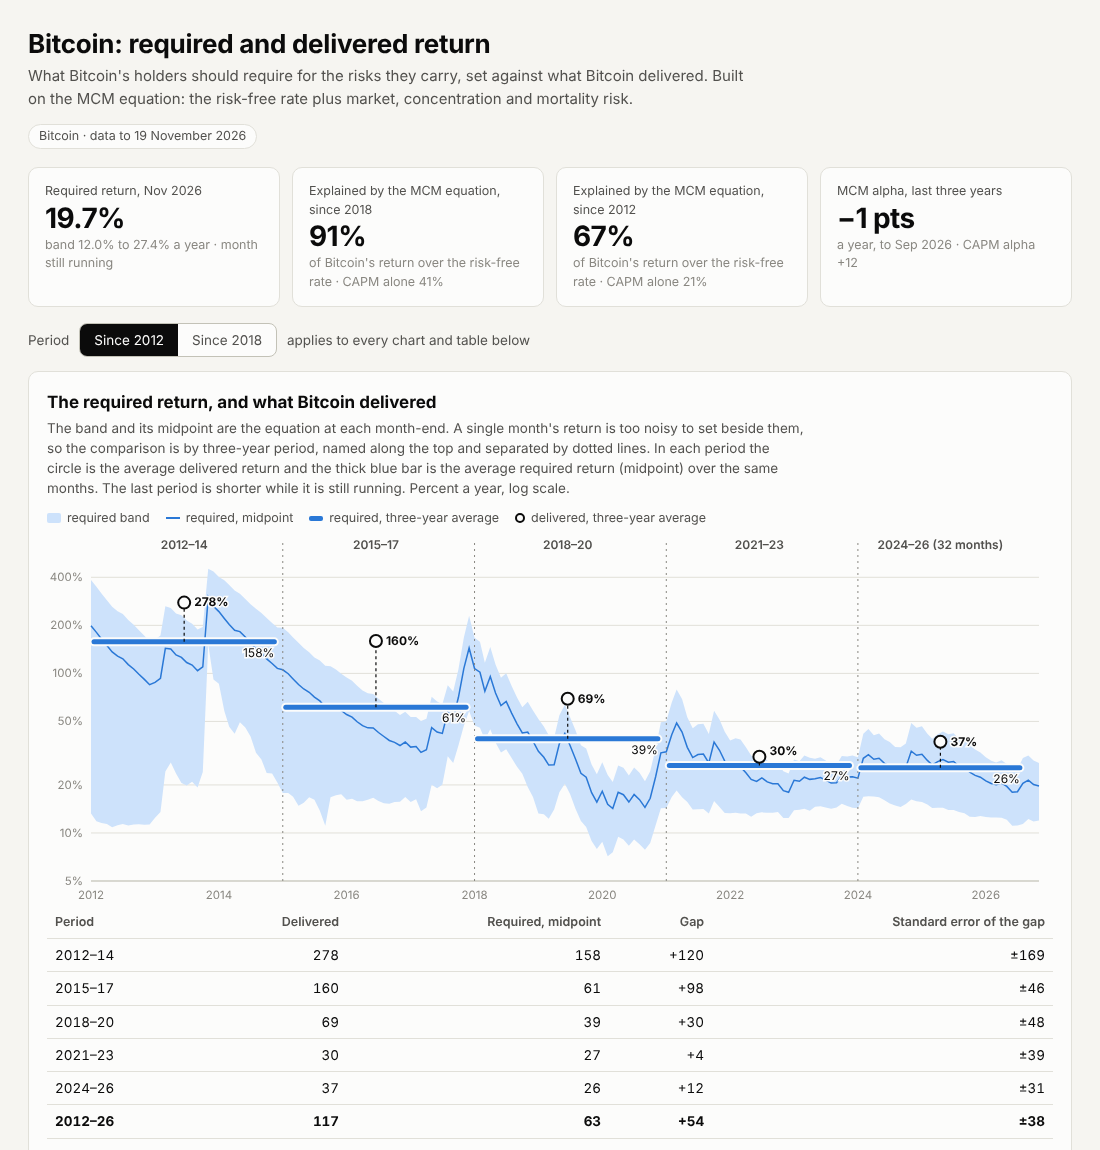
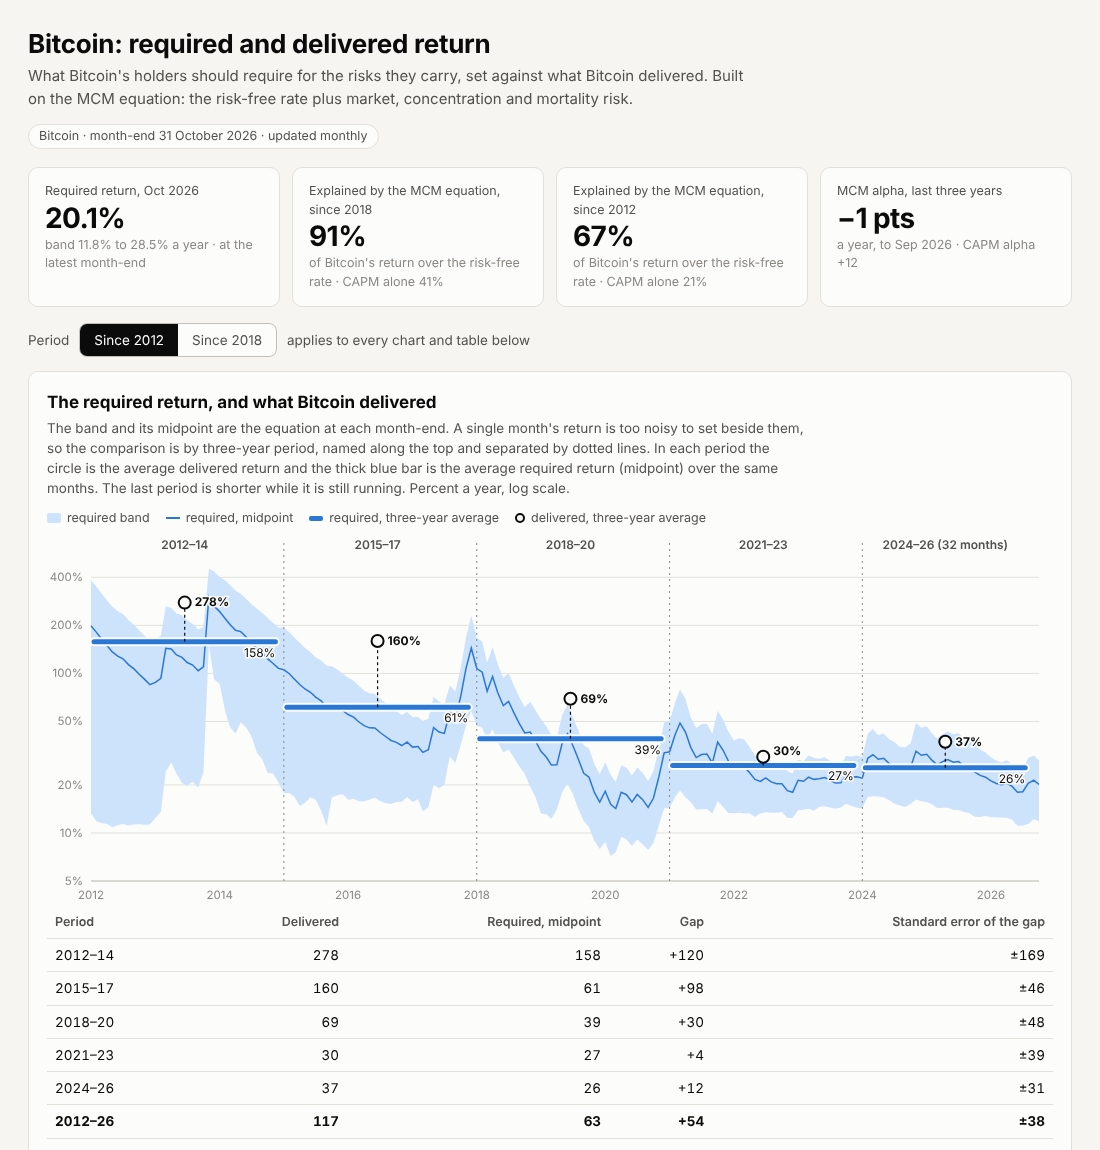
Date the page at the last complete month-end; warn when the data are old
A month in progress is left out. The page shows a notice if the latest month-end
is more than 50 days old, and the update fails if a source has stopped. Phone
layout and labels tidied.

diff --git a/site/template.html b/site/template.html
@@ -32,6 +32,7 @@ h1{font-size:26px;line-height:1.2;margin:0 0 6px;letter-spacing:-.01em}
 h2{font-size:17px;margin:0 0 2px}
 .lede{color:var(--ink2);max-width:720px;margin:0 0 6px}
 .stamp{display:inline-block;font-size:12.5px;color:var(--ink2);border:1px solid var(--line);border-radius:999px;padding:2px 10px;margin:8px 0 18px;background:var(--surface)}
+.stale{display:none;border:1px solid #c98500;border-left-width:4px;border-radius:8px;padding:10px 14px;margin:0 0 16px;background:var(--surface);font-size:13.5px;max-width:760px}
 .sub{color:var(--ink2);font-size:13.5px;margin:0 0 10px;max-width:760px}
 .card{background:var(--surface);border:1px solid var(--line);border-radius:10px;padding:18px 18px 12px;margin:0 0 16px}
 .tiles{display:grid;grid-template-columns:repeat(auto-fit,minmax(200px,1fr));gap:12px;margin:0 0 16px}
@@ -56,9 +57,10 @@ h2{font-size:17px;margin:0 0 2px}
 .mini p{font-size:12.5px;color:var(--mut);margin:0}
 
 .risk{border-top:1px solid var(--line);margin-top:18px;padding-top:16px}
-.risk>h3{font-size:16px;margin:0;display:flex;align-items:center;gap:9px}
+.risk>h3{font-size:16px;margin:0;display:flex;align-items:center;gap:4px 9px;flex-wrap:wrap}
 .risk>h3 i{width:12px;height:12px;border-radius:3px;display:inline-block}
 .risk>h3 span{font-weight:400;color:var(--ink2);font-size:13.5px}
+@media (max-width:560px){.risk>h3 span{flex-basis:100%}}
 .risk>p{font-size:13.5px;color:var(--ink2);max-width:760px;margin:6px 0 8px}
 .eq{display:flex;flex-wrap:wrap;gap:6px 10px;align-items:stretch;margin:10px 0 2px;font-variant-numeric:tabular-nums}
 .eq div{border:1px solid var(--line);border-radius:8px;padding:8px 12px;min-width:104px}
@@ -98,6 +100,7 @@ text{font-family:inherit}
   <h1>Bitcoin: required and delivered return</h1>
   <p class="lede">What Bitcoin's holders should require for the risks they carry, set against what Bitcoin delivered. Built on the MCM equation: the risk-free rate plus market, concentration and mortality risk.</p>
   <div class="stamp" id="stamp"></div>
+  <div class="stale" id="stale" role="status"></div>
 
   <div class="tiles" id="tiles"></div>
 
@@ -133,7 +136,7 @@ text{font-family:inherit}
 
   <section class="card" id="sec-per">
     <h2>How much of the delivered return each model explains</h2>
-    <p class="sub">Bitcoin's return over the risk-free rate in each three-year period, percent a year. The CAPM explains the market part: Bitcoin's beta times the S&amp;P 500's return over the risk-free rate. The MCM equation adds the concentration and mortality terms. What is left is alpha, in the lower panel: the circle less the top of the bar.</p>
+    <p class="sub">Bitcoin's return over the risk-free rate in each three-year period, percent a year. The CAPM explains the market part: Bitcoin's beta times the US equity market's return over the risk-free rate. The MCM equation adds the concentration and mortality terms. What is left is alpha, in the lower panel: the circle less the top of the bar.</p>
     <div class="legend"><span><i style="background:var(--violet)"></i>market (the CAPM part)</span><span><i style="background:var(--orange)"></i>concentration and mortality (added by MCM)</span><span><i class="dot"></i>delivered</span><span><i style="background:var(--blue)"></i>MCM alpha, with ± one standard error</span></div>
     <div class="chart" id="c-per"></div>
     <div class="scroll"><table id="t-per"></table></div>
@@ -165,8 +168,8 @@ text{font-family:inherit}
       <p>The risk Bitcoin shares with the stock market, the one risk the CAPM prices. It rises when Bitcoin moves more closely with equities.</p>
       <div class="grid2">
         <div class="mini"><h3>Market term</h3><p>points a year added to the required return</p><div class="chart" id="m-mkt"></div></div>
-        <div class="mini"><h3>Input: beta to the S&amp;P 500</h3><p>rolling four years</p><div class="chart" id="m-beta"></div></div>
-        <div class="mini"><h3>Behind beta: correlation with the S&amp;P 500</h3><p>rolling four years</p><div class="chart" id="m-corr"></div></div>
+        <div class="mini"><h3>Input: beta to the US equity market</h3><p>rolling four years</p><div class="chart" id="m-beta"></div></div>
+        <div class="mini"><h3>Behind beta: correlation with the US equity market</h3><p>rolling four years</p><div class="chart" id="m-corr"></div></div>
       </div>
     </div>
 
@@ -329,7 +332,7 @@ function perChart(){
     g.append("text").attr("x",-8).attr("y",sc(v)).attr("dy","0.32em").attr("text-anchor","end").attr("font-size",11.5).attr("fill",css("--mut")).text(fmt(v));});};
   grid(y,y.ticks(4),v=>v+"%"); grid(y2,y2.ticks(4),v=>sgn(v));
   const cap=(yy,s)=>g.append("text").attr("x",0).attr("y",yy).attr("font-size",12).attr("font-weight",600).attr("fill",css("--ink2")).text(s);
-  cap(-12,"Delivered, and what the models explain"); cap(Y2-20,"MCM alpha: delivered less explained, points a year");
+  cap(-12,"Delivered, and what the models explain"); cap(Y2-20,narrow(f)?"MCM alpha, points a year":"MCM alpha: delivered less explained, points a year");
   g.selectAll("text.x").data(P).join("text").attr("x",p=>x(p.p)+x.bandwidth()/2).attr("y",f.ih+19).attr("text-anchor","middle").attr("font-size",12).attr("fill",css("--ink2")).text(p=>narrow(f)?"’"+p.p.slice(2):p.p);
   const bw=Math.min(x.bandwidth(),64), bx=p=>x(p.p)+(x.bandwidth()-bw)/2, cx=p=>bx(p)+bw/2;
   const tipFor=(e,p)=>{const n=f.tip.node(); n.textContent="";
@@ -444,14 +447,17 @@ function deathsChart(){
 }
 function tiles(){
   const m=DATA.meta, a=DATA.per.find(p=>p.sum&&p.p.startsWith("2012")), b=DATA.per.find(p=>p.sum&&p.p.startsWith("2018"));
-  const T=[["Required return, "+fmtM(parse(m.now.asof)),m.band_mid.toFixed(1)+"%","band "+m.band_lo.toFixed(1)+"% to "+m.band_hi.toFixed(1)+"% a year"+(m.complete?"":" · month still running")],
+  const T=[["Required return, "+fmtM(parse(m.now.asof)),m.band_mid.toFixed(1)+"%","band "+m.band_lo.toFixed(1)+"% to "+m.band_hi.toFixed(1)+"% a year · at the latest month-end"],
            ["Explained by the MCM equation, since 2018",b.s_mcm+"%","of Bitcoin's return over the risk-free rate · CAPM alone "+b.s_capm+"%"],
            ["Explained by the MCM equation, since 2012",a.s_mcm+"%","of Bitcoin's return over the risk-free rate · CAPM alone "+a.s_capm+"%"],
            ["MCM alpha, last three years",sgn(m.tmcm)+" pts","a year, to "+fmtM(parse(m.to))+" · CAPM alpha "+sgn(m.tcapm)]];
   const el=document.getElementById("tiles"); el.textContent="";
   T.forEach(([k,v,n])=>{const d=document.createElement("div"); d.className="tile"; [["k",k],["v",v],["n",n]].forEach(([c,t])=>{const s=document.createElement("div"); s.className=c; s.textContent=t; d.appendChild(s);}); el.appendChild(d);});
-  document.getElementById("stamp").textContent="Bitcoin · data to "+d3.timeFormat("%-d %B %Y")(d3.timeParse("%Y-%m-%d")(m.data_to));
-  document.getElementById("asof").textContent="Dates of the data: prices and the Treasury yield to "+d3.timeFormat("%-d %B %Y")(d3.timeParse("%Y-%m-%d")(m.data_to))+"; equity market returns, and so the tests, to "+fmtM(parse(m.market_to))+" (the beta is carried forward from that month); ownership survey to "+fmtM(parse(m.anchors.ownership_survey))+"; fund and treasury holdings to "+fmtM(parse(m.anchors.fund_and_treasury_holdings))+", held flat after.";
+  const day=d3.timeParse("%Y-%m-%d"), longDate=d3.timeFormat("%-d %B %Y"), monthEnd=day(m.month_end);
+  document.getElementById("stamp").textContent="Bitcoin · month-end "+longDate(monthEnd)+" · updated monthly";
+  const age=Math.floor((Date.now()-monthEnd.getTime())/864e5), stale=document.getElementById("stale");
+  if(age>50){ stale.textContent="These figures are for "+longDate(monthEnd)+", "+age+" days ago. The monthly update has not run since, so they may be out of date."; stale.style.display="block"; }
+  document.getElementById("asof").textContent="Dates of the data: prices and the Treasury yield to "+longDate(monthEnd)+"; equity market returns, and so the tests, to "+fmtM(parse(m.market_to))+" (the beta is carried forward from that month); ownership survey to "+fmtM(parse(m.anchors.ownership_survey))+"; fund and treasury holdings to "+fmtM(parse(m.anchors.fund_and_treasury_holdings))+", held flat after.";
 }
 function draw(){
   bandChart(); termsChart(); perChart(); trailChart(); cumChart();

diff --git a/observatory/build.py b/observatory/build.py
@@ -30,15 +30,16 @@ def build(data: Path, out: Path) -> dict:
     mkt = inputs.market_return(data)
     band = mcm.required_return_band(btc, mkt, inputs.risk_free(data), cfg)
     band = band[band.index >= "2012-01-01"].dropna(subset=["midpoint"])
+    # The page is dated at the last complete month-end: a month in progress is left out.
+    last_day = btc["PriceUSD"].dropna().index[-1]
+    month_complete = last_day == last_day + pd.offsets.MonthEnd(0)
+    if not month_complete:
+        band = band.iloc[:-1]
     t = tests_of_fit.monthly_test(band, mkt)
     periods = tests_of_fit.period_table(t)
 
-    last_day = btc["PriceUSD"].dropna().index[-1]
-    month_complete = last_day == last_day + pd.offsets.MonthEnd(0)
     supply = btc["SplyCur"].dropna().resample("ME").last()
     issuance = btc["IssTotNtv"].resample("ME").sum() * 12 / supply
-    if not month_complete:
-        issuance.iloc[-1] = np.nan          # a partial month's total is not comparable
     fund_share = band["fund_btc"] / supply.reindex(band.index)
     roll = lambda s: 1200 * s.rolling(TRAILING).mean()
     trail = pd.DataFrame({"excess": roll(t.excess), "capm": roll(t.capm_unexplained), "mcm": roll(t.mcm_unexplained)})
@@ -78,7 +79,6 @@ def build(data: Path, out: Path) -> dict:
         "meta": {
             "asset": "btc", "name": "Bitcoin",
             "data_to": last_day.strftime("%Y-%m-%d"), "latest_month_end": band.index[-1].strftime("%Y-%m-%d"),
-            "latest_month_complete": bool(month_complete),
             "units": "percent a year unless stated; next_month figures are percent a month",
             "method": "Papadogiannis (2026), Bitcoin's Required Return. https://doi.org/10.2139/ssrn.7705239",
             "equity_market_to": mkt.dropna().index[-1].strftime("%Y-%m"),
@@ -136,7 +136,7 @@ def _page_payload(doc: dict) -> dict:
             "s_capm": round(p["explained_capm"]), "s_mcm": round(p["explained_mcm"])} for p in doc["periods"]]
     w, lt = doc["latest"]["worked"], doc["latest"]
     tr_rows = [r for r in rows if r["tmcm"] is not None]
-    meta = {"data_to": doc["meta"]["data_to"], "complete": doc["meta"]["latest_month_complete"],
+    meta = {"data_to": doc["meta"]["data_to"], "month_end": doc["meta"]["latest_month_end"],
             "market_to": doc["meta"]["equity_market_to"], "anchors": doc["meta"]["anchors_to"],
             "band_lo": lt["required"]["lower"], "band_hi": lt["required"]["upper"], "band_mid": lt["required"]["midpoint"],
             "tmcm": tr_rows[-1]["tmcm"], "tcapm": tr_rows[-1]["tcapm"], "to": tr_rows[-1]["d"],

diff --git a/observatory/update.py b/observatory/update.py
@@ -138,6 +138,17 @@ def main(argv):
         print(f"{k:12s} to {v['last_observation']}, {v['rows_added']} rows added" + (f", {len(v['revisions'])} series differ from the stored overlap" if v.get("revisions") else ""))
         for r in v.get("revisions", []):
             print("   ", r)
+    # A source that has stopped must fail the run, so that the page is never rebuilt on stale data unnoticed.
+    today = date.today()
+    limits = {"coinmetrics": 7, "treasury": 10, "market": 130}
+    late = []
+    for k, days in limits.items():
+        obs = log[k]["last_observation"]
+        last = date.fromisoformat(obs if len(obs) == 10 else obs + "-28")
+        if (today - last).days > days:
+            late.append(f"{k}: last observation {obs}, more than {days} days old")
+    if late:
+        raise SystemExit("Stale source. " + "; ".join(late))
     log_path = data / "sources.json"
     if changed or not log_path.exists():
         log["retrieved"] = datetime.now(timezone.utc).strftime("%Y-%m-%d")
